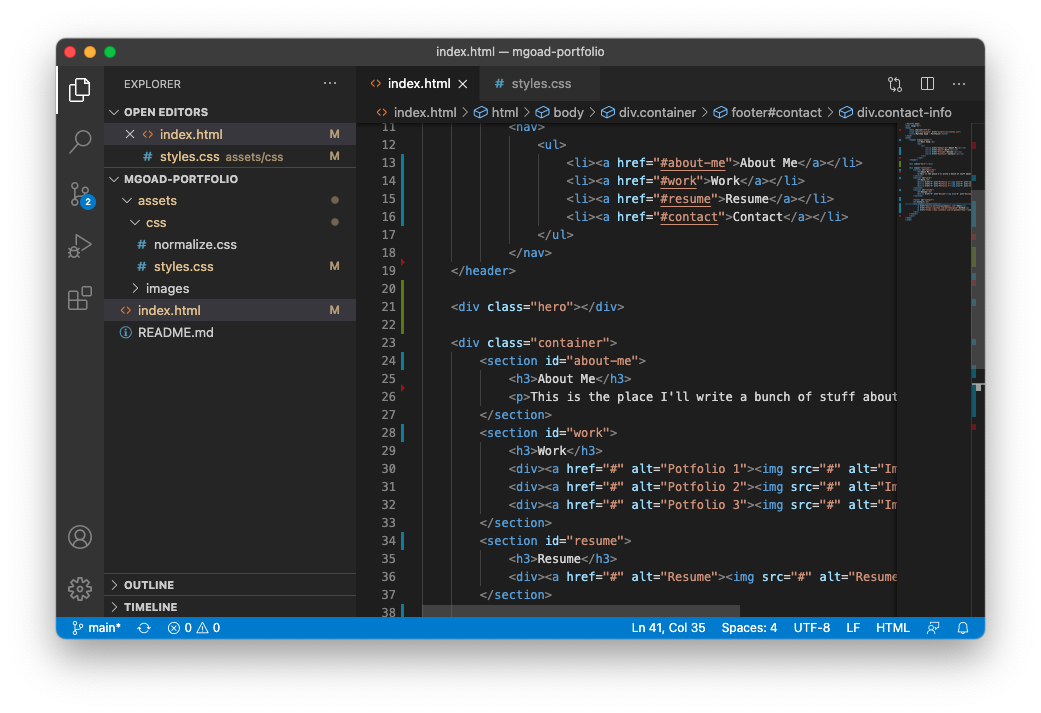
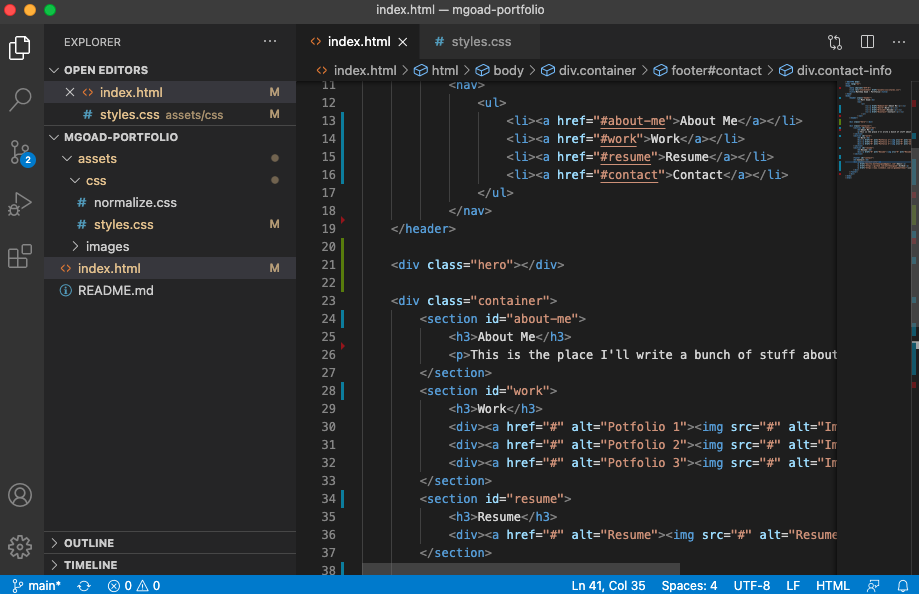
adjusted flex boxes and image sizes. cleaned up formatting for resume section.

diff --git a/index.html b/index.html
@@ -7,6 +7,7 @@
     <title>Matthew Goad - Portfolio</title>
 </head>
 <body>
+    
     <header class="header">
             <h1>Matt Goad</h1>
             <nav>
@@ -22,7 +23,8 @@
     <div class="hero"></div>
 
     <div class="container">
-        <section id="about-me">
+        
+        <section class="main-content" id="about-me">
             <h3>About Me</h3>
             <div class="section-right">
                 <p>
@@ -42,41 +44,49 @@
                 </p>
             </div>
         </section>
-        <section id="work">
+        
+        <section class="main-content" id="work">
             <h3>Work</h3>
-            <div class="section-right">
+            <div class="section-right" id="work-section">
                 <div class="example-container">
-                    <img src="assets/images/screenshot-proj1.png" alt="Portfolio Example 1">
+                    <a href="#" alt="Potfolio 1"><img src="assets/images/screenshot-proj1.png" alt="Portfolio Example 1"></a>
                     <div class="example-label">Project 1</div>
-                  </div>
-                <div class="example-container">
-                    <a href="#" alt="Potfolio 2"><img src="assets/images/screenshot-proj2.png" alt="Image of Portfolio 2"></a>
-                    <div class="example-label">Project 2</div>
                 </div>
-                </div>
-                <div class="example-container">
-                    <a href="#" alt="Potfolio 3"><img src="assets/images/screenshot-proj3.png" alt="Image of Portfolio 3"></a>
-                    <div class="example-label">Project 3</div>
+                <div class="portfolio-bottom-row">
+                    <div class="example-container">
+                        <a href="#" alt="Potfolio 2"><img src="assets/images/screenshot-proj2.png" alt="Image of Portfolio 2"></a>
+                        <div class="example-label">Project 2</div>
+                    </div>
+                    <div class="example-container">
+                        <a href="#" alt="Potfolio 3"><img src="assets/images/screenshot-proj3.png" alt="Image of Portfolio 3"></a>
+                        <div class="example-label">Project 3</div>
+                    </div>
                 </div>
             </div>
         </section>
-        <section id="resume">
+        
+        <section class="main-content" id="resume">
             <h3>Resume</h3>
             <div class="section-right">
-                <p>
-                    Just a city boy
-                    Born and raised in South Detroit
-                    He took the midnight train goin' anywhere
-                </p>
-                <p>
-                    A singer in a smokey room
-                    The smell of wine and cheap perfume
-                    For a smile they can share the night
-                    It goes on and on, and on, and on
-                </p>
+                    <strong>Red Skyline Productions</strong> <em>Coordinator</em><br>
+                    <ul>
+                        <li>Created and implemented COVID saftey protocols for multiple producitons.</li>
+                        <li>Adjusted standard processes for various production companies, including <em>Netflix</em>, <em>Quibi</em>, and <em>The Food Network</em></li>
+                        <li>Coordinated schedules for production teams with varying needs and availabilty.</li>
+                        <li>Ensured compliance with local, state, and corporate health &amp; saftey requirements.</li>
+                    </ul>
+                    <br>
+                    <strong>Apple, Inc.</strong> <em>Technical Expert</em><br>
+                    <ul>
+                        <li>Used premade troubleshooting processes to uncover and resolve customer issues.</li>
+                        <li>Followed established safety and regulatory standards to repair mobile devices.</li>
+                        <li>Stayed current on all company products, services, and quality programs.</li>
+                    </ul>
             </div>
         </section>
+    
     </div>
+    
     <footer id="contact">
         <h3>Contact</h3>
         <div class="contact-info">
@@ -85,5 +95,7 @@
             <a href="https://www.linkedin.com/in/goadmatthew/">LinkedIn</a>
         </div>
     </footer>
+
+
 </body>
 </html>

diff --git a/assets/css/styles.css b/assets/css/styles.css
@@ -56,32 +56,26 @@ body {
     display: flex;
     flex-direction: column;
     align-items: center;
+    justify-content: flex-start;
     background-color: var(--coralorng);
-}
-p {
-    background-color: var(--kindagrey);
-    padding: 5px;
-    width: 600px;
-    line-height: 1.5;
-    margin-bottom: 5px;
 }
 .about-me, .work, .resume, .contact {
     display: flex;
     flex-direction: flex-start;
 }
-section {
+.main-content {
     border: none;
     margin-top: 3%;
     padding: 5%;
     display: flex;
     flex-wrap: wrap;
-    justify-content: space-evenly;
+    justify-content: space-between;
     align-items: flex-start;
     background-color: var(--wrmyellow);
     width: 90%;
-    color: black;
+    color: var(--drkpurple);
 }
-section > h3 {
+.main-content > h3 {
     display: inline-block;
     border-bottom: 2px solid var(--drkpurple);
     padding-bottom: 2px;
@@ -89,13 +83,28 @@ section > h3 {
     font-family: cursive;
     font-size: 2rem;
 }
-/* Container holding the image and the text */
+.section-right {
+    width: 75%;
+    display: flex;
+    flex-direction: column;
+    background-color: var(--kindagrey);
+    padding: 5%;
+    line-height: 1.5;
+    margin-bottom: 5px;
+}
+#work-section {
+    background-color: var(--wrmyellow);
+}
 .example-container {
     position: relative;
     text-align: center;
     color: white;
+    background-color: var(--wrmyellow);
+    height: 20%;
   }
-/* Centered text */
+  #work-section {
+      padding: 0;
+  }
 .example-label {
     position: absolute;
     top: 50%;
@@ -108,13 +117,16 @@ section > h3 {
     padding: 1em;
     border-radius: 13%;
   }
-section img {
-    width: 600px;
+  .portfolio-bottom-row {
+      display: flex;
+  }
+.section-right img {
     margin-bottom: 5px;
-    filter: blur(2px);
-    -webkit-filter: blur(2px);
+    filter: blur(1px);
+    -webkit-filter: blur(1px);
+    width: 100%;
+    
 }
-
 section:last-of-type { 
     margin-bottom: 5%;
 }
@@ -126,7 +138,7 @@ footer {
     flex-direction: flex-start;
     color: var(--kindagrey);
     background-color: var(--drkpurple);
-    justify-content: space-around;
+    justify-content: space-between;
     align-items: center;
     padding: 3%;
 }
